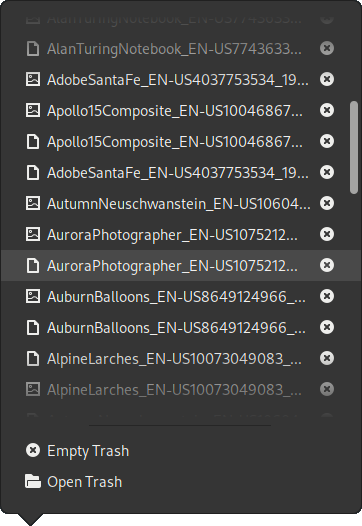
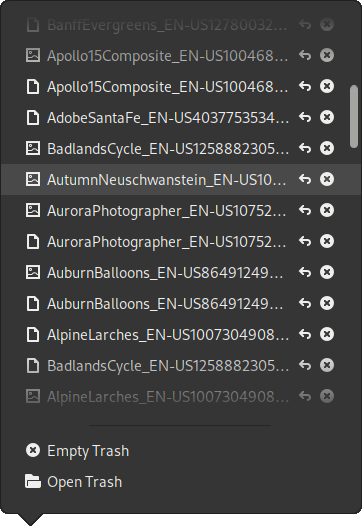
Add screenshot

diff --git a/extension.js b/extension.js
@@ -209,7 +209,7 @@ const trashMenu = GObject.registerClass(
 
         // restore button
         let icon_restore = new St.Icon({
-          icon_name: "undo-symbolic",
+          icon_name: "edit-undo-symbolic",
           style_class: 'system-status-icon'
         });
 

diff --git a/stylesheet.css b/stylesheet.css
@@ -1,3 +1,7 @@
 .trash-scroll-menu-section {
     max-height:450px;
 }
+
+.modal-dialog {
+    min-width:400px;
+}
